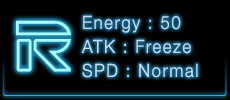
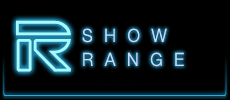
added D and R in informationLayer, Removing Tower are now give 20% energy back to player

Changed region(s): [[0.3348, 0.12, 0.8826, 0.81]]

diff --git a/src/Selector.js b/src/Selector.js
@@ -65,11 +65,13 @@ window.Selector = cc.Sprite.extend({
 
 		// REMOVE
 		}else if(this.direction == Selector.CTRL.DELETE){
+			this.game.informationLayer.pushSkill(4);
 			var blockType = this.maze.getBlockAt(targetPos);
 			if(blockType == "wall" || !blockType){
 				return;
 			}else if(blockType == "tower"){
 				this.maze.removeAt(targetPos);
+
 			}
 			
 			this.direction = null;
@@ -77,13 +79,14 @@ window.Selector = cc.Sprite.extend({
 		
 		//CREATE LOW
 		}else if(this.direction == Selector.CTRL.CREATE_LOW){
+			this.game.informationLayer.pushSkill(0);
 			var blockType = this.maze.getBlockAt(targetPos);
 			if(blockType == "tower" || blockType == "wall" || !blockType){
 				return;
 			}else if(blockType == "ground"){
 				console.log("ground");
 				this.maze.createAt(targetPos,"LOW");
-				this.game.informationLayer.pushSkill(0);
+				
 			}
 			
 			this.direction = null;	
@@ -92,13 +95,14 @@ window.Selector = cc.Sprite.extend({
 
 		//CREATE HIGH
 		else if(this.direction == Selector.CTRL.CREATE_HIGH){
+			this.game.informationLayer.pushSkill(1);
 			var blockType = this.maze.getBlockAt(targetPos);
 			if(blockType == "tower" || blockType == "wall" || !blockType){
 				return;
 			}else if(blockType == "ground"){
 				console.log("ground");
 				this.maze.createAt(targetPos,"HIGH");
-				this.game.informationLayer.pushSkill(1);
+				
 			}
 			
 			this.direction = null;
@@ -107,13 +111,14 @@ window.Selector = cc.Sprite.extend({
 
 		//CREATE FREEZE
 		else if(this.direction == Selector.CTRL.CREATE_FREEZE){
+			this.game.informationLayer.pushSkill(2);
 			var blockType = this.maze.getBlockAt(targetPos);
 			if(blockType == "tower" || blockType == "wall" || !blockType){
 				return;
 			}else if(blockType == "ground"){
 				console.log("ground");
 				this.maze.createAt(targetPos,"FREEZE");
-				this.game.informationLayer.pushSkill(2);
+				
 			}
 			
 			this.direction = null;
@@ -123,13 +128,15 @@ window.Selector = cc.Sprite.extend({
 
 		//TOGGLE to SHOW TOWER RANGE
 		else if(this.direction == Selector.CTRL.SHOW_RANGE ){
-			var block = this.maze._getBlockAt(targetPos);
+			this.game.informationLayer.pushSkill(3);
+			var block = this.maze._getBlockAt(targetPos);	
 			if(block == undefined || block.blockType == "wall" || !block.blockType){
 				return;
 			}else if(block.blockType == "tower"){
 				if(block.tower.isShowRange == false) {
 					block.tower.isShowRange = true;
 					block.tower.showRange(true);
+					
 				}
 				else {
 					block.tower.isShowRange = false;

diff --git a/src/Tower.js b/src/Tower.js
@@ -253,6 +253,9 @@ var Tower = cc.Layer.extend({
 
     spriteID:[],
 
+    sellPrice:0,
+    cost:0,
+
 
     init:function (spriteID, ball, attackRange, speed, attack, game) {
         this._super();
@@ -574,6 +577,8 @@ Tower.createLow = function (game) {
     // Tower Construction : SpriteValue, ballSprite, AttackRange, SpeedDelay, Attack, GAME
     var tower = Tower.create(spriteValue, s_TowerBall[0], 200, 300, 20,game);
     tower._bulletType = "low";
+    tower.cost = 5;
+    tower.sellPrice = 1;
     return tower;
 };
 
@@ -599,6 +604,8 @@ Tower.createHigh = function (game) {
     // Tower Construction : SpriteValue, ballSprite, AttackRange, SpeedDelay, Attack, GAME
     var tower = Tower.create(spriteValue, s_TowerBall[1], 200, 1000, 200,game);
     tower._bulletType = "high";
+    tower.cost = 40;
+    tower.sellPrice = 8;
     return tower;
 };
 
@@ -625,6 +632,8 @@ Tower.createFreeze = function( game ) {
     // Tower Construction : SpriteValue, ballSprite, AttackRange, SpeedDelay, Attack, GAME
     var tower = Tower.create(spriteValue, s_TowerBall[2], 200, 600, 30,game);
     tower._bulletType = "splash";
+    tower.cost = 50;
+    tower.sellPrice = 10;
     tower.setFreeze(3,0.5);
     return tower;
 };

diff --git a/src/InformationLayer.js b/src/InformationLayer.js
@@ -19,7 +19,7 @@ var InformationLayer = cc.LayerColor.extend({
         var director = cc.Director.getInstance();
         var winSize = director.getWinSize();
 
-        for(var i=0 ; i< 3; i++) {
+        for(var i=0 ; i< 5; i++) {
             this._skills[i] = cc.Sprite.create(s_TWSkills[i]);
             this._skills[i].setAnchorPoint(0, 0);
             this._skills[i].setPosition(0,winSize.height-150-(i*100));

diff --git a/src/resource.js b/src/resource.js
@@ -37,6 +37,8 @@ var s_TWSkills = [
     "res/images/skills/Q.png",
     "res/images/skills/W.png",
     "res/images/skills/E.png",
+    "res/images/skills/R.png",
+    "res/images/skills/D.png",
 
 ];
 
@@ -89,6 +91,8 @@ var g_resources = [
     {src:s_TWSkills[0]},
     {src:s_TWSkills[1]},
     {src:s_TWSkills[2]},
+    {src:s_TWSkills[3]},
+    {src:s_TWSkills[4]},
 
 
     {src:s_Disk[0]},

diff --git a/src/Creep.js b/src/Creep.js
@@ -106,7 +106,6 @@ var Creep = cc.Sprite.extend({
             var movePath = this.maze.toGamePos(cc.p(path[0], path[1]));
             this.moveAction = cc.MoveTo.create(this.timeStep, movePath);
             
-            this.stopAllActions();
             this.runAction(this.moveAction);
         }
 

diff --git a/src/MazeNode.js b/src/MazeNode.js
@@ -213,7 +213,7 @@ window.MazeNode = cc.Node.extend({
 			return false;
 		}
 		var fadeOut = cc.FadeOut.create(0.2);
-
+		this.energyCost += block.tower.sellPrice;
 		block.tower._sBall.runAction(cc.FadeOut.create(0.3));
         block.tower.tower.runAction(cc.Sequence.create(
             fadeOut,
